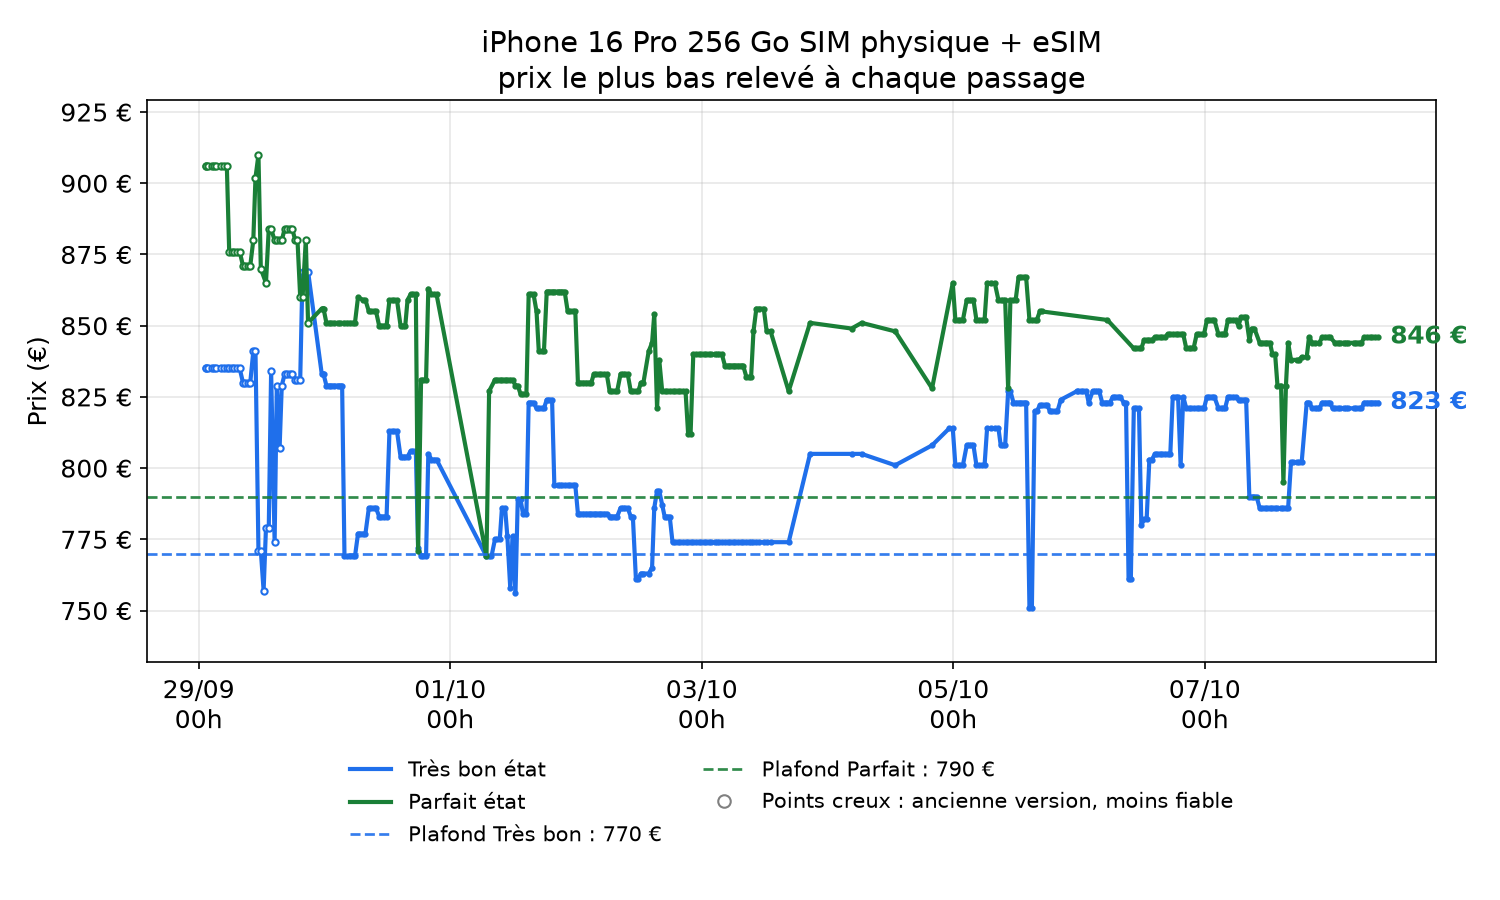
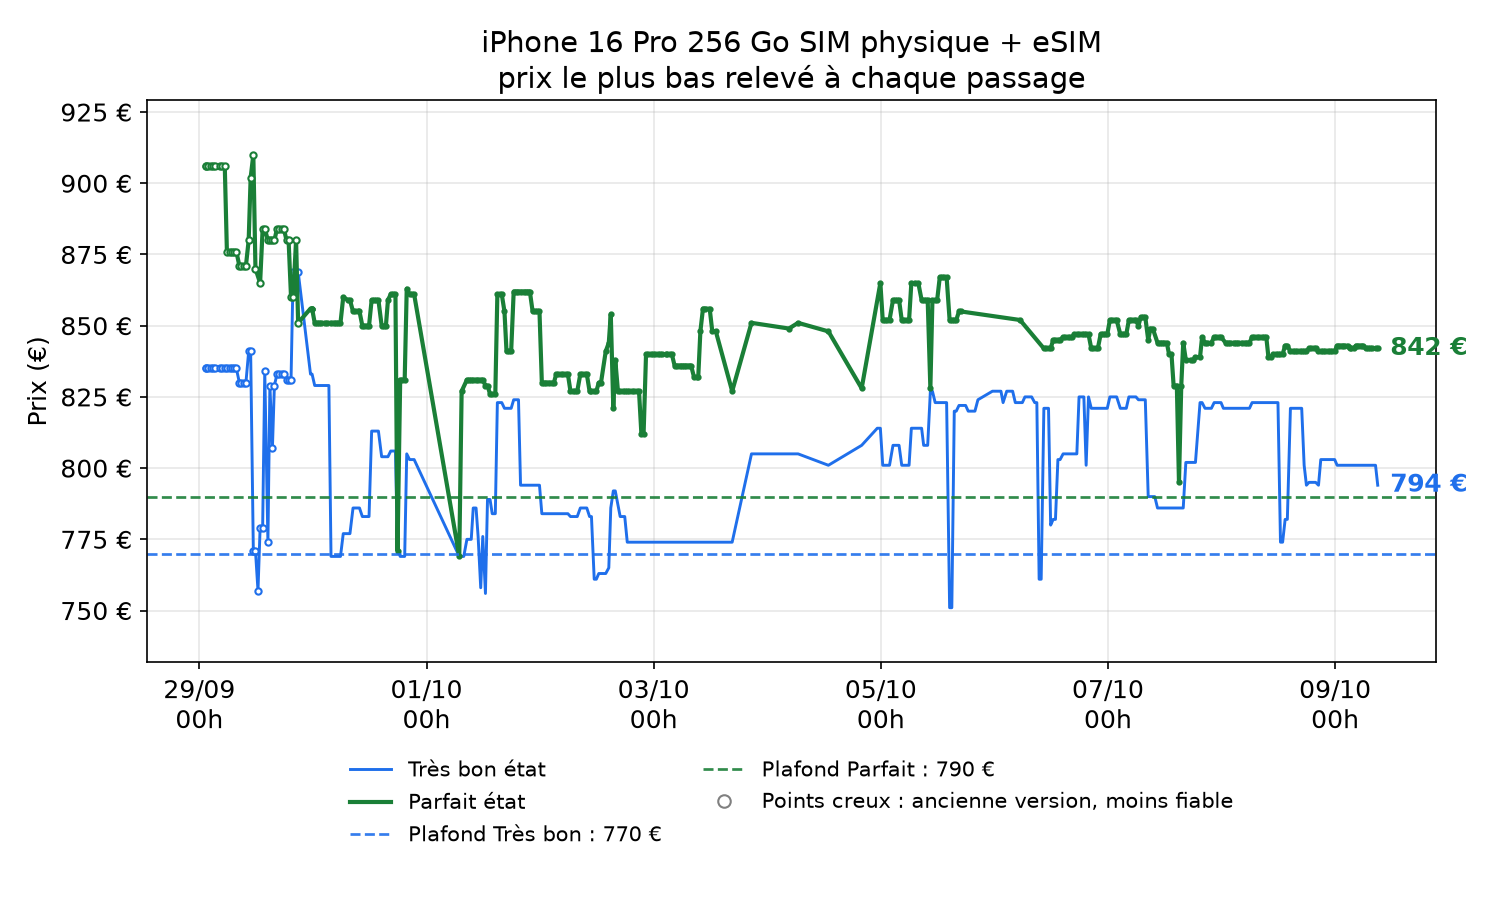
Relevé de prix du 09/10 09h00

diff --git a/README.md b/README.md
@@ -5,5 +5,5 @@
 
 ![Évolution du prix](historique.png)
 
-356 passages du 29/09 01h18 au 08/10 09h00. Derniers prix : Très bon 823 € · Parfait 846 € (plafonds : Très bon 770 €, Parfait 790 €). Données complètes : [historique.csv](historique.csv).
+404 passages du 29/09 01h18 au 09/10 09h00. Derniers prix : Très bon 794 € · Parfait 842 € (plafonds : Très bon 770 €, Parfait 790 €). Données complètes : [historique.csv](historique.csv).
 <!-- veille:fin -->
